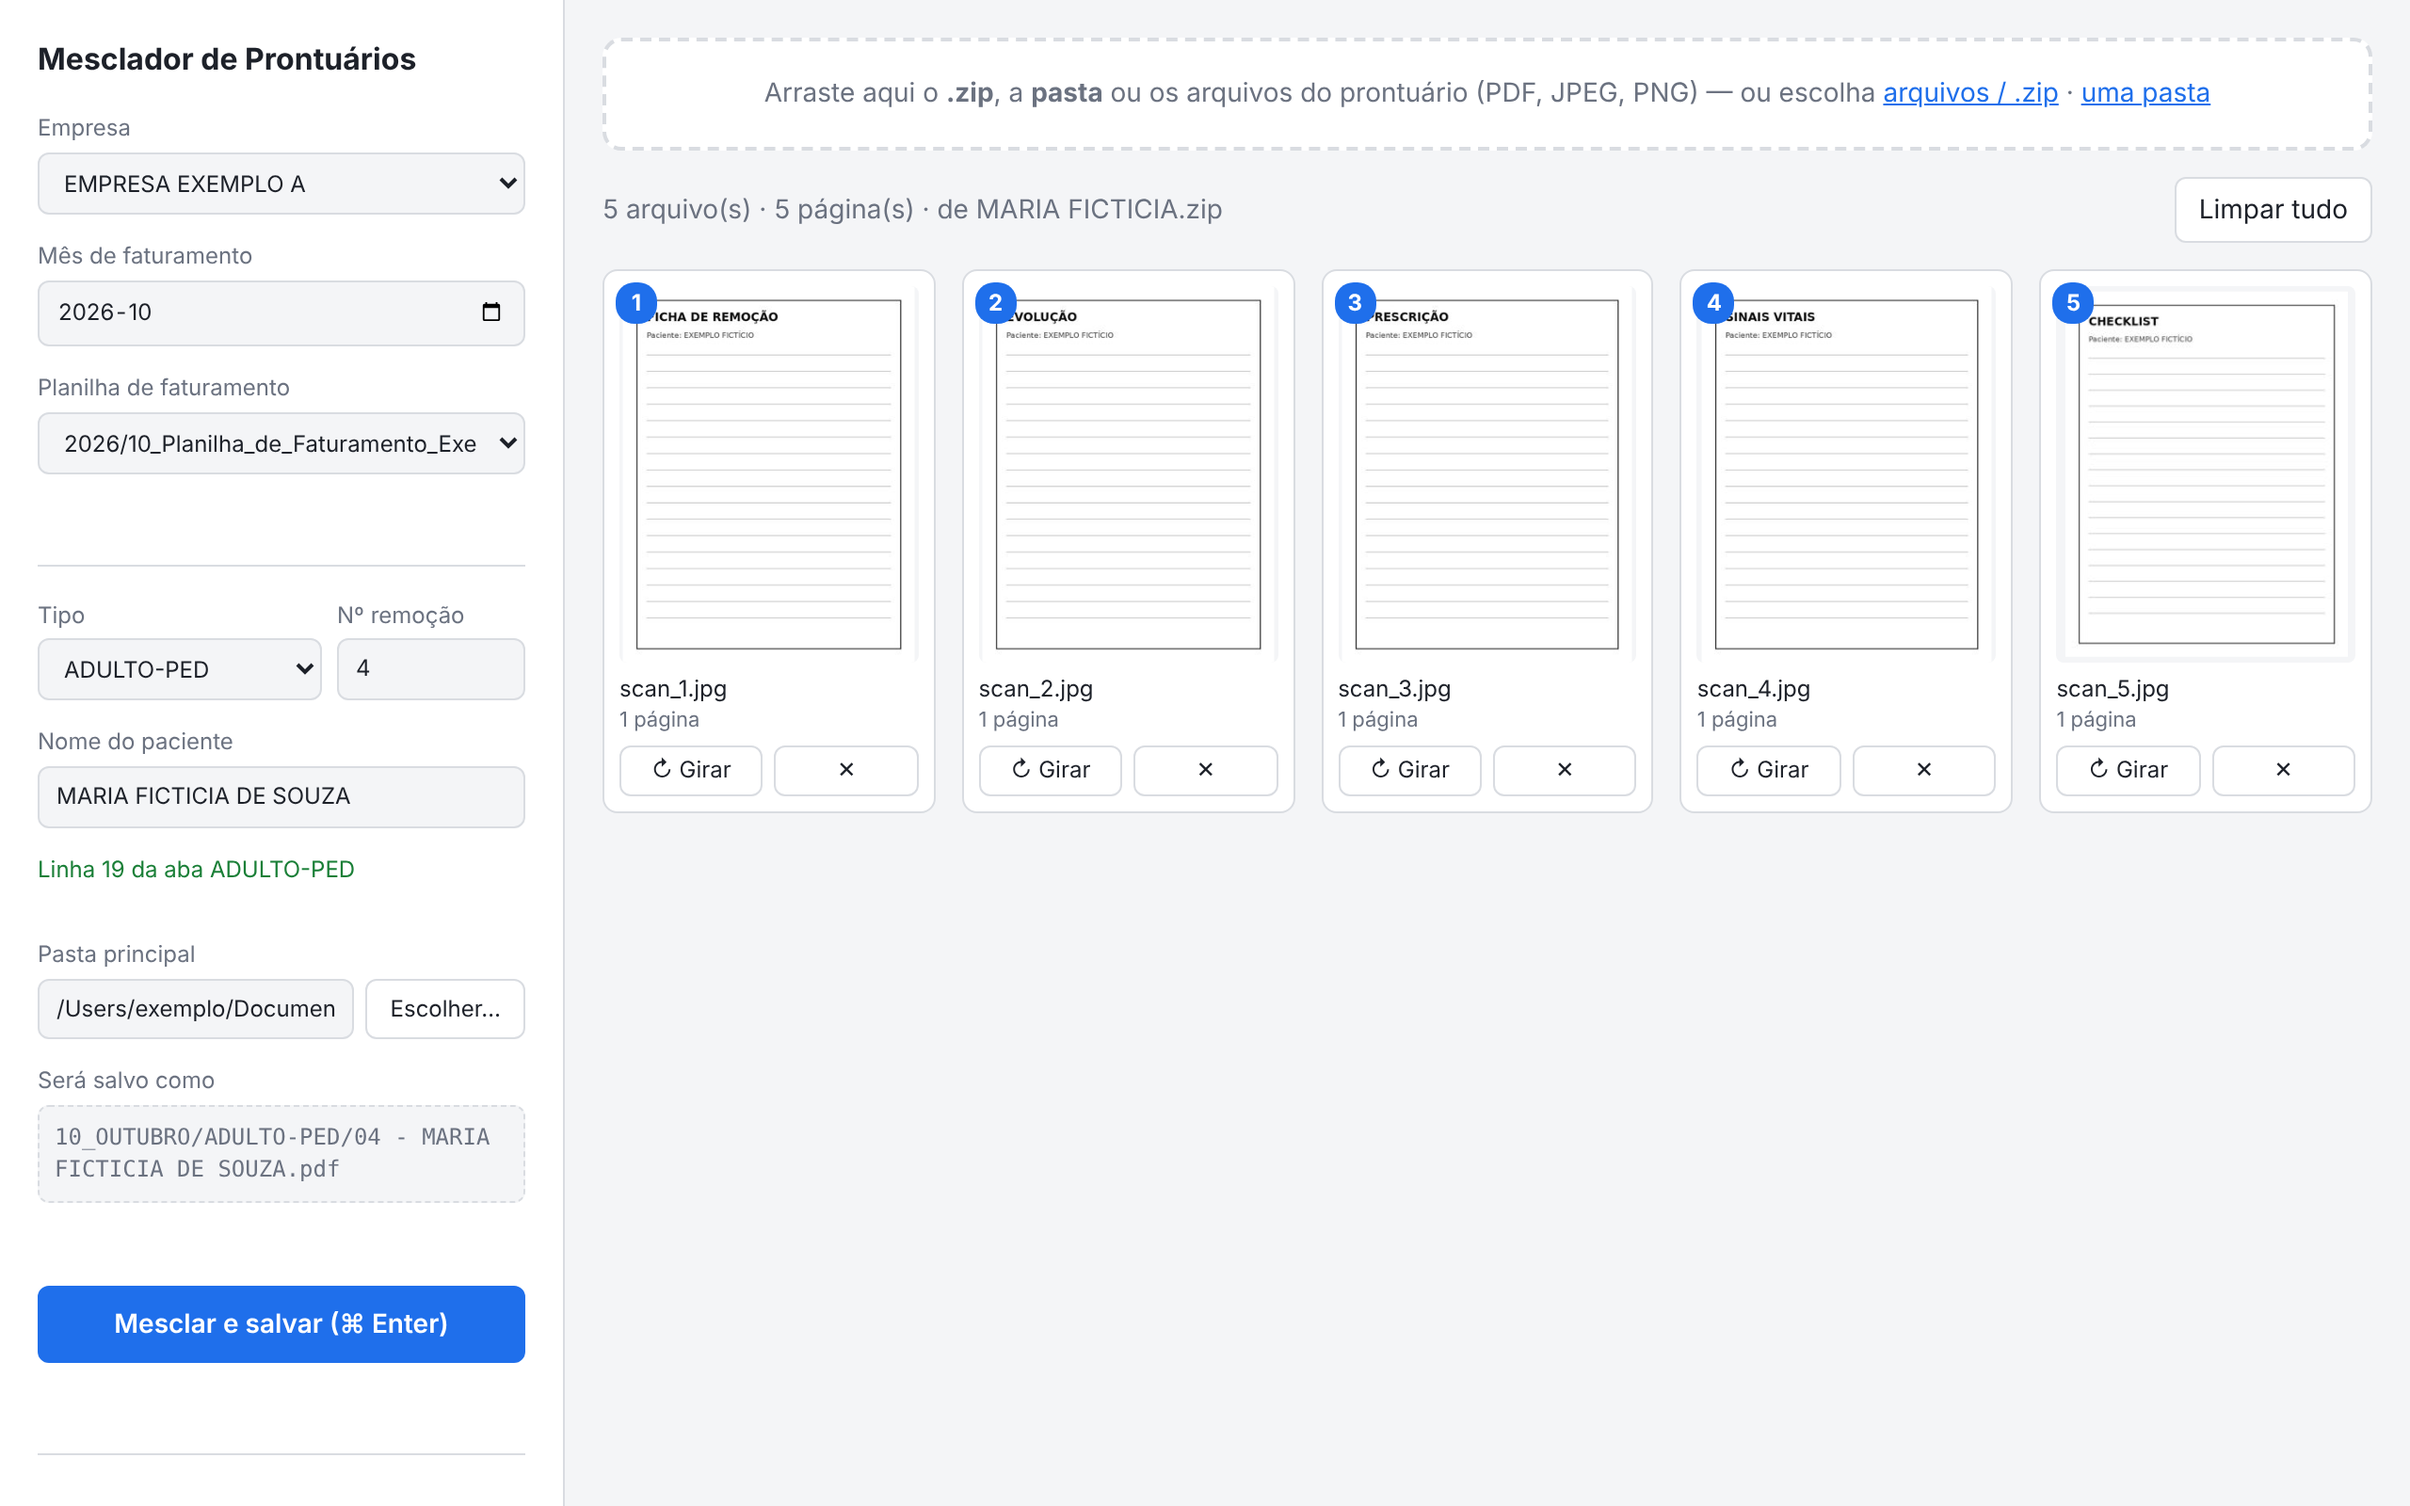
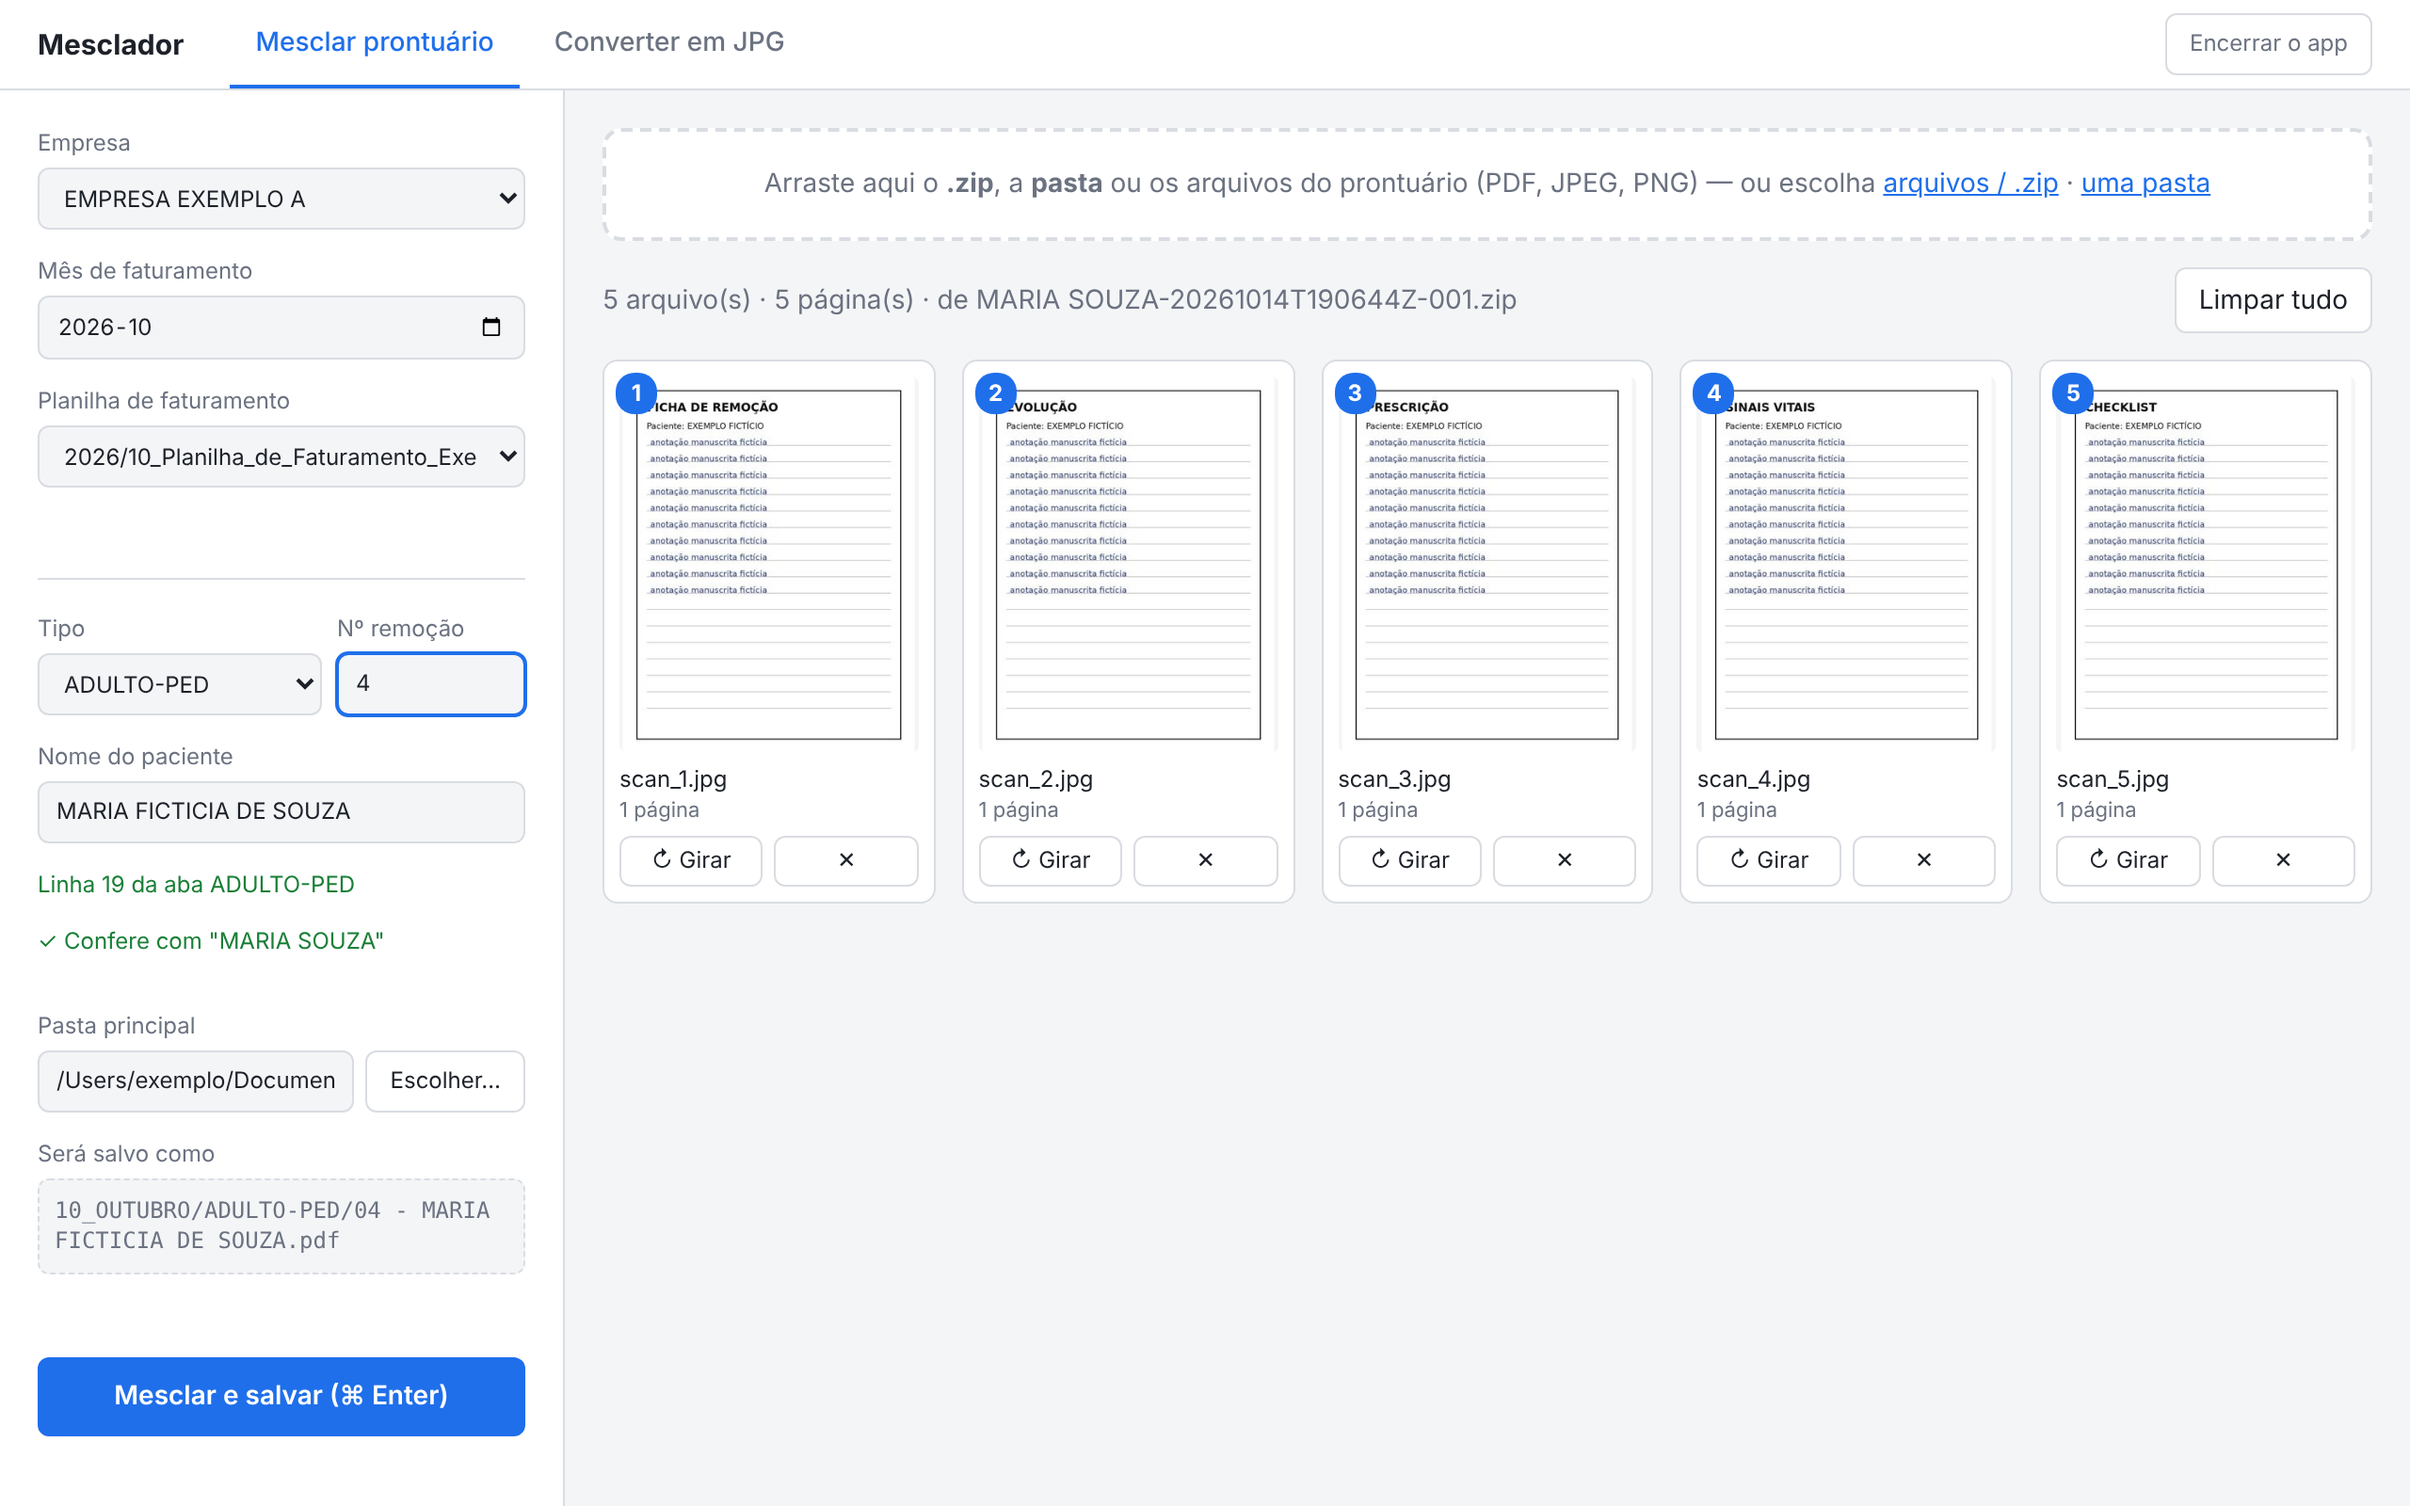
README: tela Converter em JPG, conferência de nome e estrutura atualizada

diff --git a/README.md b/README.md
@@ -1,6 +1,6 @@
 # Mesclador de Prontuários
 
-Ferramenta local para montar, um a um, os prontuários que acompanham o faturamento de remoções em UTI móvel: junta as folhas escaneadas (PDF/JPEG/PNG) na ordem certa, busca o nome do paciente na planilha de faturamento pelo Nº da remoção e salva o PDF com o nome e na pasta corretos.
+Ferramenta local para montar, um a um, os prontuários que acompanham o faturamento de remoções em UTI móvel: junta as folhas escaneadas (PDF/JPEG/PNG) na ordem certa, busca o nome do paciente na planilha de faturamento pelo Nº da remoção e salva o PDF com o nome e na pasta corretos. O app tem duas telas, acessadas pela barra superior: **Mesclar prontuário** e **Converter em JPG**.
 
 ![Tela do Mesclador](docs/tela.png)
 _Dados fictícios._
@@ -20,7 +20,20 @@ O fluxo manual era: baixar as folhas em `.zip`, extrair, enviar para um site de 
 - Você escolhe a pasta principal no seletor nativo do macOS; o app usa a subpasta do tipo (`ADULTO…` / `NEO…`) e a cria se não existir
 - Nº com 2 dígitos (`04`, `05`, `10`) para a ordenação ficar certa
 - Mostra o caminho final antes de salvar e não sobrescreve sem confirmação
+- Confere o nome: quando o zip ou a pasta vem com o nome do paciente, o app compara com o nome da planilha; se não bater, mostra um aviso e pede confirmação ao salvar (zips genéricos `drive-download-…` não são conferidos)
 - Roda **só no computador** (`127.0.0.1`): nenhum arquivo sai da máquina, sem dependência de internet
+
+## Converter em JPG
+
+![Tela Converter em JPG](docs/conversor.png)
+_Dados fictícios._
+
+Quando a folha escaneada está escura ou difícil de ler, a tela **Converter em JPG** transforma as páginas em imagens ajustáveis. O uso típico: converter, ajustar a legibilidade e voltar pela tela de mesclar para montar o PDF.
+
+- Aceita **PDF**, **.zip**, **pasta** ou imagens; cada página vira um cartão
+- Ajustes **por página** (brilho, contraste e realçar escrita), com prévia no cartão; **Aplicar a todas** copia os ajustes da página selecionada para as demais e **Restaurar esta página** desfaz os ajustes dela
+- Ampliar a página com 🔍, girar e remover
+- Exporta para `Downloads/<nome>/<nome> - 01.jpg…` em 200 DPI, sem sobrescrever (se a pasta já existir, cria `<nome> (2)`), com o botão **Mostrar no Finder**
 
 ## Decisões de projeto
 
@@ -30,6 +43,8 @@ O fluxo manual era: baixar as folhas em `.zip`, extrair, enviar para um site de 
 | App web local (Flask) em vez de interface desktop | Arrastar e soltar e miniaturas saem prontos no navegador; nenhuma biblioteca externa de front-end, então funciona offline |
 | `.gitignore` bloqueia PDF, imagens e planilhas    | Evita que um prontuário real seja versionado por engano                                                                   |
 | Não sobrescreve e mostra a prévia do caminho      | Um arquivo com nome errado vira glosa                                                                                     |
+| Ajustes só na página inteira                      | Melhora a legibilidade sem alterar o conteúdo registrado no prontuário; não há ferramenta para apagar ou editar trechos   |
+| Conferência de nome avisa, não bloqueia           | O nome da pasta no Drive pode estar abreviado ou escrito diferente; a decisão final é de quem audita                      |
 
 ## Instalação
 
@@ -49,7 +64,7 @@ cp config.example.toml config.toml   # edite caminhos, empresas e colunas da pla
 python3 -m mesclador
 ```
 
-O navegador abre em `http://127.0.0.1:5050`. Para encerrar, `Ctrl+C` no terminal.
+O navegador abre em `http://127.0.0.1:5050`. Para encerrar, use o botão **Encerrar o app** na barra superior (`Ctrl+C` continua valendo quando aberto pelo terminal).
 
 1. Escolha empresa e mês (a planilha do mês é selecionada sozinha)
 2. Escolha a pasta principal do mês (fica lembrada por empresa e mês)
@@ -83,10 +98,18 @@ mesclador/
   config.py     leitura do config.toml
   planilha.py   listar, ler e buscar na planilha de faturamento
   pdfs.py       miniaturas, conversão de imagem e mesclagem
+  conversor.py  tela Converter em JPG
+  imagens.py    renderização de páginas e ajustes de imagem
+  navegador.py  focar/fechar a aba no Chrome/Safari
   seletor.py    seletor de pastas nativo do macOS
   web.py        rotas Flask
   templates/    interface (HTML/CSS/JS sem dependências externas)
+    base.html       barra superior e JS comum
+    index.html      tela de mesclar
+    converter.html  tela Converter em JPG
+macos/          ícone e scripts do Mesclador.app
 tests/          testes com dados fictícios
+CLAUDE.md       regras para agentes
 ```
 
 ## Testes
